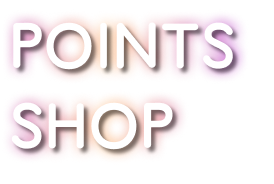
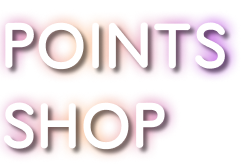
title resizing

diff --git a/app/(tabs)/Shop.tsx b/app/(tabs)/Shop.tsx
@@ -36,7 +36,7 @@ const tutorialTexts = [
 const IMAGE_WIDTH = 1728;
 const IMAGE_HEIGHT = 3273;
 
-const TITLE_IMAGE_Y = 150;     // Where title image should appear
+const TITLE_IMAGE_Y = 350;     // Where title image should appear
 const POINTS_IMAGE_Y = 1080;   // Where points display should appear
 const MERCH_ROW_IMAGE_Y = 1250;  // Where merch cards should appear (below "merch" label)
 const RAFFLE_ROW_IMAGE_Y = 2150; // Where raffle cards should appear (below "raffle" label)
@@ -51,6 +51,13 @@ const imageYToScreenY = (
   const coverScale = Math.max(scaleX, scaleY);
   const offsetY = (IMAGE_HEIGHT * coverScale - containerHeight) / 2;
   return (imageY * coverScale) - offsetY;
+};
+
+// Get the cover scale factor for sizing elements proportionally
+const getCoverScale = (containerWidth: number, containerHeight: number): number => {
+  const scaleX = containerWidth / IMAGE_WIDTH;
+  const scaleY = containerHeight / IMAGE_HEIGHT;
+  return Math.max(scaleX, scaleY);
 };
 
 
@@ -70,6 +77,13 @@ export default function PointShop() {
   const containerHeight = screenHeight;
   
   const safeAreaAdjustment = insets.top - 57; // baseline of ~57 (average)
+  const coverScale = getCoverScale(containerWidth, containerHeight);
+  
+  // Title size in the original image (approximate) - scales with background
+  const TITLE_BASE_WIDTH = 800;  // Base width in image pixels
+  const TITLE_BASE_HEIGHT = 400; // Base height in image pixels
+  const titleWidth = TITLE_BASE_WIDTH * coverScale;
+  const titleHeight = TITLE_BASE_HEIGHT * coverScale;
   
   const TITLE_Y = imageYToScreenY(TITLE_IMAGE_Y, containerWidth, containerHeight) + safeAreaAdjustment;
   const POINTS_Y = imageYToScreenY(POINTS_IMAGE_Y, containerWidth, containerHeight) + safeAreaAdjustment;
@@ -219,7 +233,7 @@ export default function PointShop() {
       <View style={{ position: "absolute", top: TITLE_Y, left: 20, zIndex: 10 }}>
         <Image
           source={require("../../assets/point-shop/point-shop-title.png")}
-          style={styles.titleImage}
+          style={{ width: titleWidth, height: titleHeight }}
           resizeMode="contain"
         />
       </View>
@@ -362,10 +376,6 @@ const styles = StyleSheet.create({
   },
   safeArea: {
     flex: 1,
-  },
-  titleImage: {
-    width: 140,
-    marginLeft: 10,
   },
   contentContainer: {
     flex: 1,
